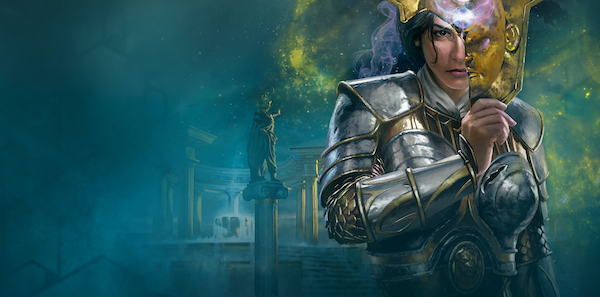
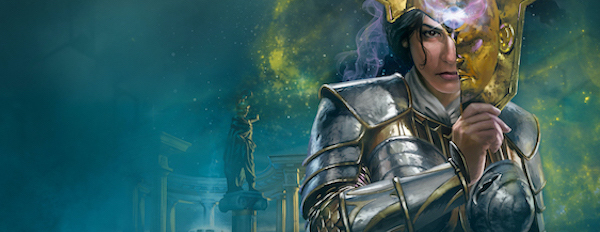
Add second slide to carousel

diff --git a/index.html b/index.html
@@ -138,6 +138,7 @@
         id="carouselExampleCaptions"
         class="carousel slide"
         data-ride="carousel"
+        pause="hover"
       >
         <ol class="carousel-indicators">
           <li
@@ -150,91 +151,123 @@
         </ol>
         <div
           class="carousel-inner"
-          style="position:relative; align-items: stretch; display: flex; max-height:25vh"
+          style="position:relative; align-items: stretch; display: flex; max-height:300px"
         >
-          <div class="carousel-item active">
-            <div>
-              <picture>
-                <source
-                  media="(max-width: 599px)"
-                  srcset="resources/carousel/theros-wallpaper600.jpg"
-                />
-                <source
-                  media="(max-width: 799px)"
-                  srcset="resources/carousel/theros-wallpaper800.jpg"
-                />
-                <source
-                  media="(max-width: 1399px)"
-                  srcset="resources/carousel/theros-wallpaper1400.jpg"
-                />
-                <source
-                  media="(min-width: 1400px)"
-                  srcset="resources/carousel/theros-wallpaper1900.jpg"
-                />
-                <img
-                  src="resources/carousel/theros-wallpaper600.jpg"
-                  alt="theros"
-                  class="d-block w-100 img-fluid"
-                  max-height="25vh"
-                />
+          <div class="carousel-item active img-fluid w-100 h-100">
+            <picture>
+              <source
+                media="(max-width: 599px)"
+                srcset="resources/carousel/theros-wallpaper600.jpg"
+                class="img-fluid"
+              />
+              <source
+                media="(max-width: 799px)"
+                srcset="resources/carousel/theros-wallpaper800.jpg"
+                class="img-fluid"
+              />
+              <source
+                media="(max-width: 1399px)"
+                srcset="resources/carousel/theros-wallpaper1400.jpg"
+                class="img-fluid"
+              />
+              <source
+                media="(min-width: 1400px)"
+                srcset="resources/carousel/theros-wallpaper1900.jpg"
+                class="img-fluid"
+              />
 
-                <div
-                  class="carousel-caption"
-                  style="position:absolute; 
+              <img
+                src="resources/carousel/theros-wallpaper1900jpg"
+                alt="theros"
+                class="d-block w-100 img-fluid"
+              />
+
+              <div
+                class="carousel-caption"
+                style="position:absolute; 
                   left: 3%; 
                   right:70%; 
                   top:2%;
                   text-align:center; padding-bottom: 50px; text-size-adjust:auto;"
-                >
-                  <h5 style="font-size:1.2rem;">
-                    <a
-                      href="https://magic.wizards.com/en/products/TherosBeyondDeath"
-                      style="color:rgb(114, 176, 226)"
-                    >
-                      <strong>Theros Beyond Death</strong> <br />the new card
-                      set</a
-                    >
-                  </h5>
-                  <p class="d-none d-lg-block" style="font-size:0.8rem; ">
-                    "In <em>Theros</em>, the pantheon of gods vies for undying
-                    devotion among their mortal subjects. But in the Underworld,
-                    there is only one master: the Lord of the Dead. Break free
-                    from death's shackles as a hero reborn. Choose your god and
-                    fight in their name...or forge a destiny all your own."
-                  </p>
-                  <div class="d-none d-lg-block" style="font-size:0.8rem;">
-                    <a
-                      class="btn btn-info"
-                      href="https://magic.wizards.com/en/products/TherosBeyondDeath"
-                      role="button"
-                      >Explore...</a
-                    >
-                  </div>
+              >
+                <h5 style="font-size:0.8rem;">
+                  <a
+                    href="https://magic.wizards.com/en/products/TherosBeyondDeath"
+                    style="color:rgb(114, 176, 226)"
+                  >
+                    <strong>Theros Beyond Death</strong> <br />the new card
+                    set</a
+                  >
+                </h5>
+                <p class="d-none d-lg-block" style="font-size:0.8rem; ">
+                  "In <em>Theros</em>, the pantheon of gods vies for undying
+                  devotion among their mortal subjects. But in the Underworld,
+                  there is only one master: the Lord of the Dead. Break free
+                  from death's shackles as a hero reborn. Choose your god and
+                  fight in their name...or forge a destiny all your own."
+                </p>
+                <div class="d-none d-lg-block" style="font-size:0.8rem;">
+                  <a
+                    class="btn btn-info"
+                    href="https://magic.wizards.com/en/products/TherosBeyondDeath"
+                    role="button"
+                    >Explore...</a
+                  >
                 </div>
-              </picture>
-            </div>
+              </div>
+            </picture>
+          </div>
+
+          <div class="carousel-item img-fluid w-100 h-100">
+            <picture>
+              <source
+                media="(max-width: 599px)"
+                srcset="resources/carousel/Magic-World-Championship-600.jpg"
+                class="img-fluid"
+              />
+              <source
+                media="(max-width: 799px)"
+                srcset="resources/carousel/Magic-World-Championship-800.jpg"
+                class="img-fluid"
+              />
+              <source
+                media="(max-width: 1399px)"
+                srcset="resources/carousel/Magic-World-Championship-1400.jpg"
+                class="img-fluid"
+              />
+              <source
+                media="(min-width: 1400px)"
+                srcset="resources/carousel/Magic-World-Championship-1900.jpg"
+                class="img-fluid"
+              />
+              <img
+                src="resources/carousel/Magic-World-Championship-1900.jpg"
+                alt="mtg worlds"
+                class="d-block w-100 img-fluid h-100"
+              />
+
+              <div
+                class="carousel-caption"
+                style="position:absolute; 
+                  left: 5%; 
+                  right:80%; 
+                  top:2%;
+                  text-align:center; padding-bottom: 50px; text-size-adjust:auto;"
+              >
+                <h5 style="font-size:0.8rem;">
+                  <a href="https://www.magic.gg/" style="color:rgb(189, 81, 8)">
+                    <strong>Magic The Gathering eSports</strong><br />
+                    <br />the World Championship XXVI</a
+                  >
+                </h5>
+                <p class="d-none d-lg-block" style="font-size:0.8rem; ">
+                  Magic World Championship XXVI Top 16 is here! They battle it
+                  out for $1,000,000 in prizes from beautiful Honolulu, Hawaii.
+                </p>
+              </div>
+            </picture>
           </div>
         </div>
-        <!--
-        <a
-          class="carousel-control-prev"
-          href="#carouselExampleCaptions"
-          role="button"
-          data-slide="prev"
-        >
-          <span class="carousel-control-prev-icon" aria-hidden="true"></span>
-          <span class="sr-only">Previous</span>
-        </a>
-        <a
-          class="carousel-control-next"
-          href="#carouselExampleCaptions"
-          role="button"
-          data-slide="next"
-        >
-          <span class="carousel-control-next-icon" aria-hidden="true"></span>
-          <span class="sr-only">Next</span>
-        </a>
-        --->
       </div>
     </main>
 
